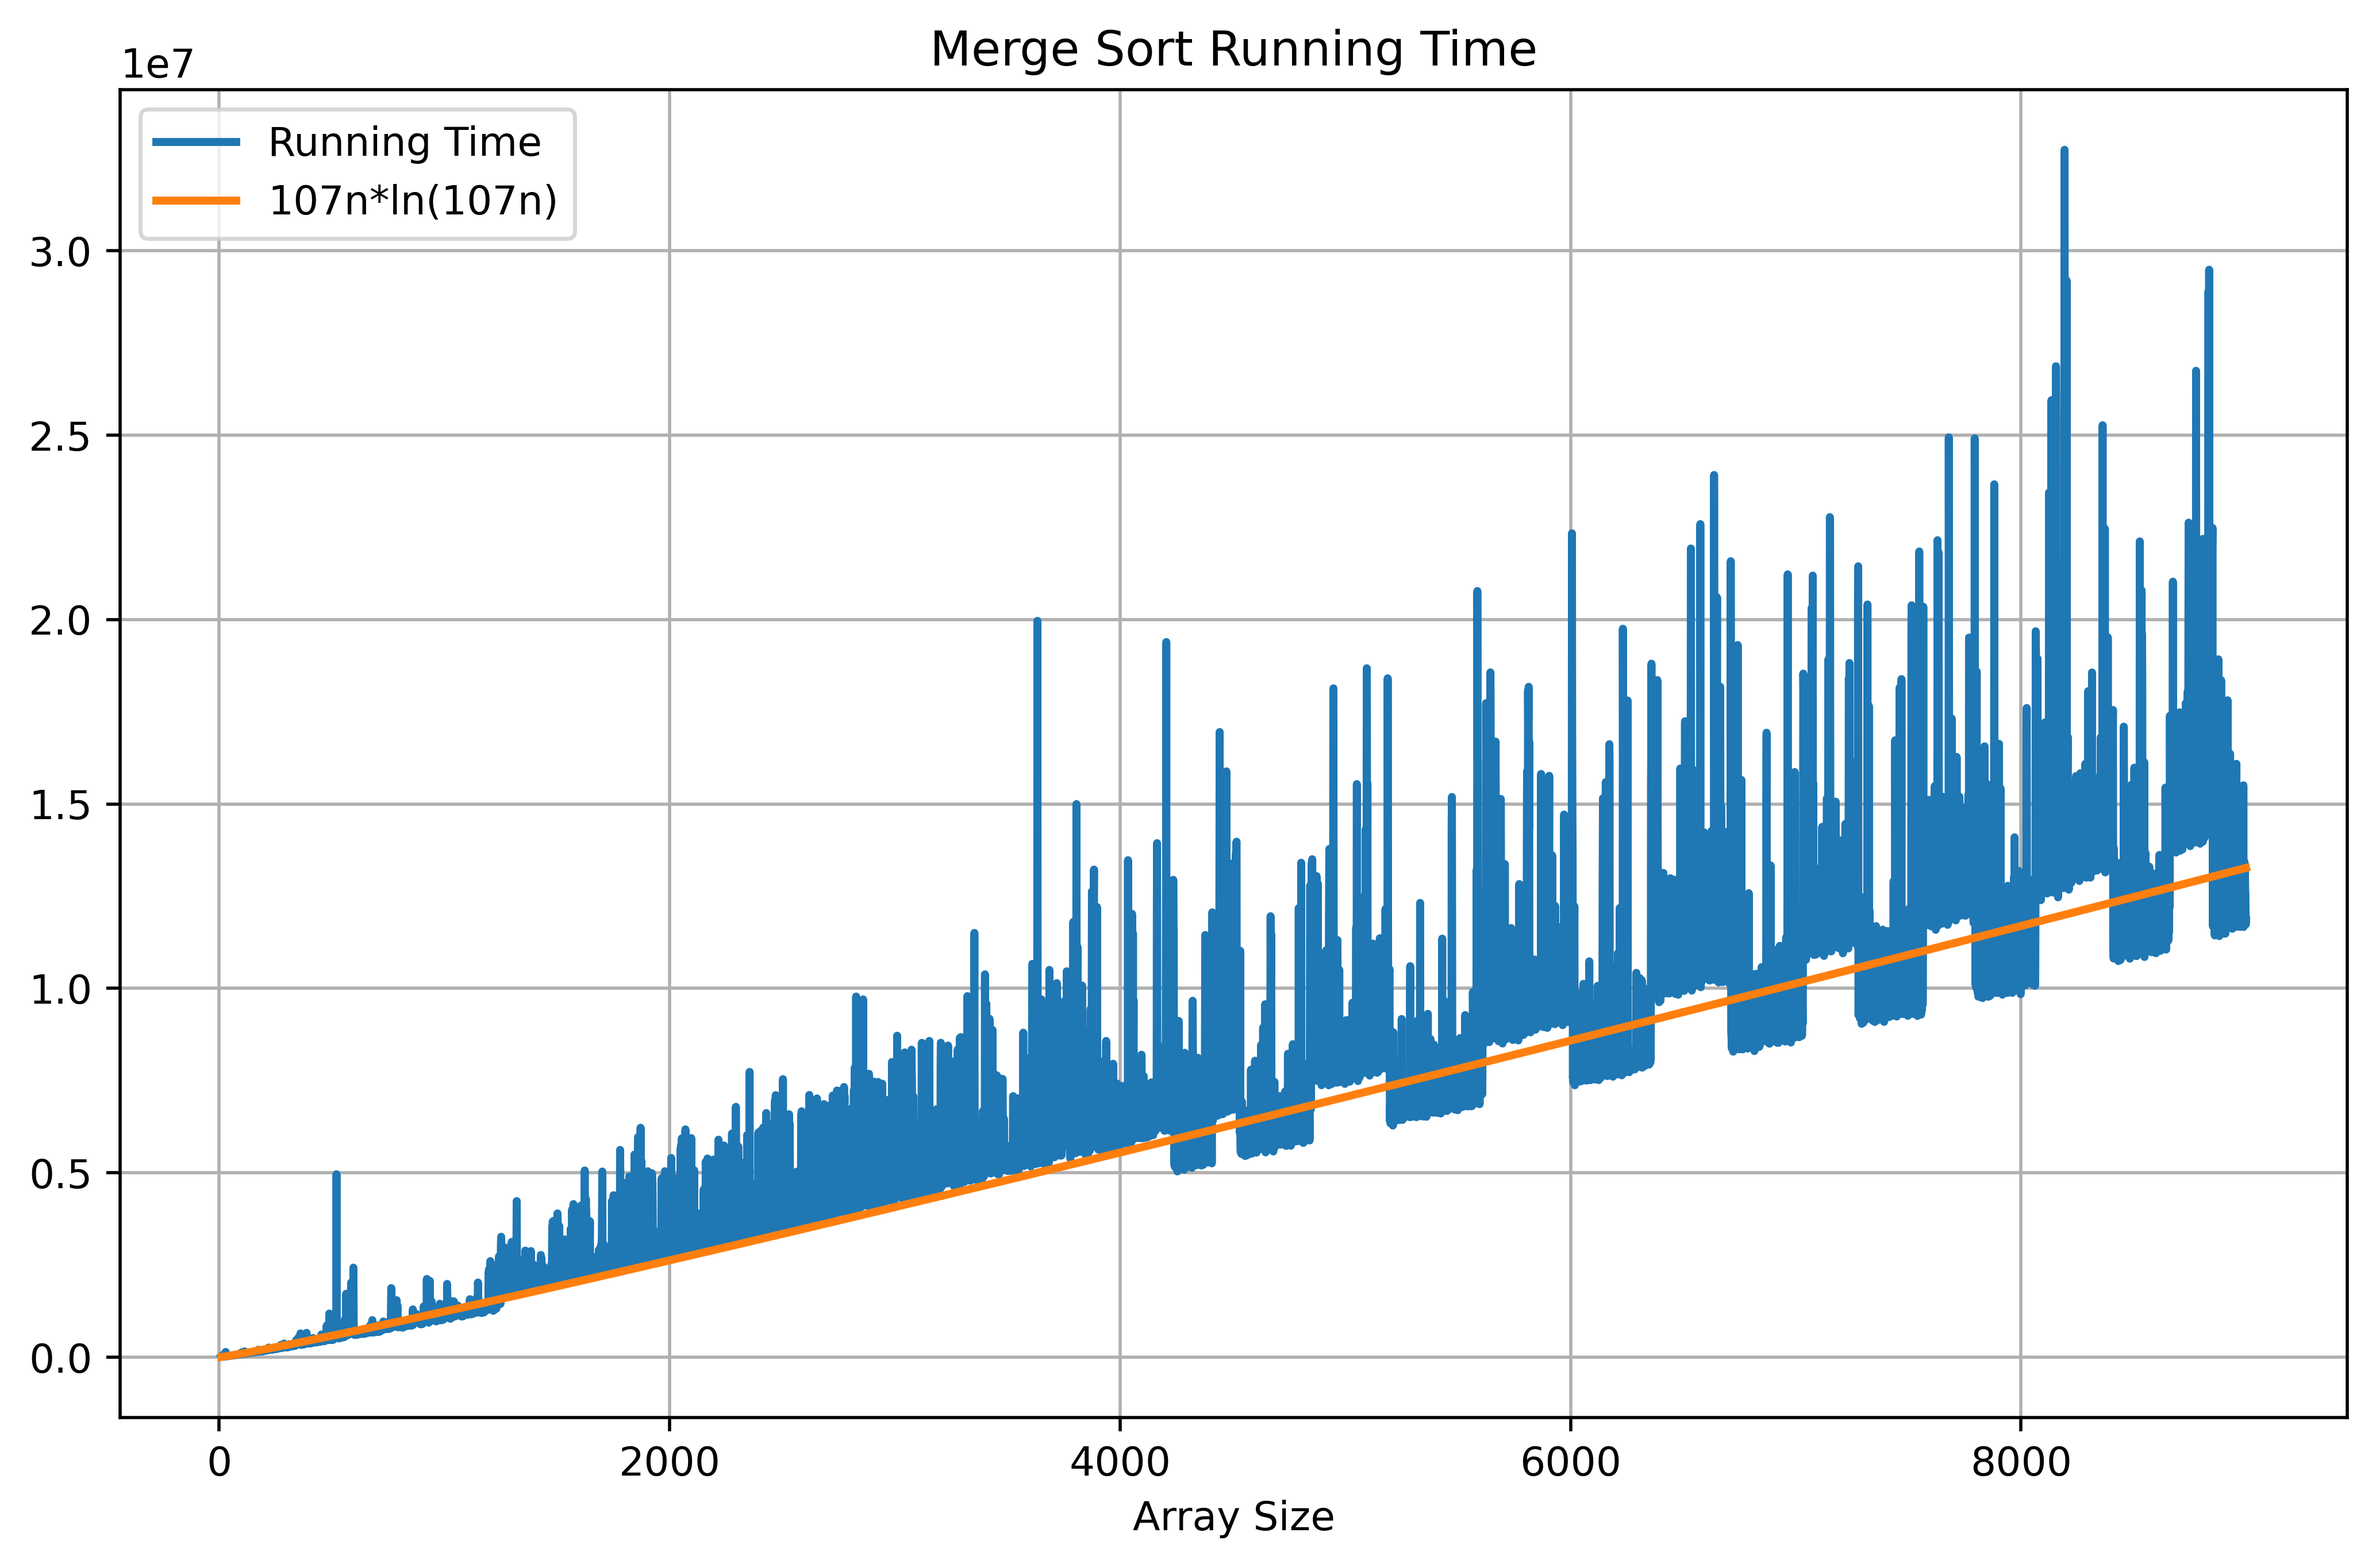
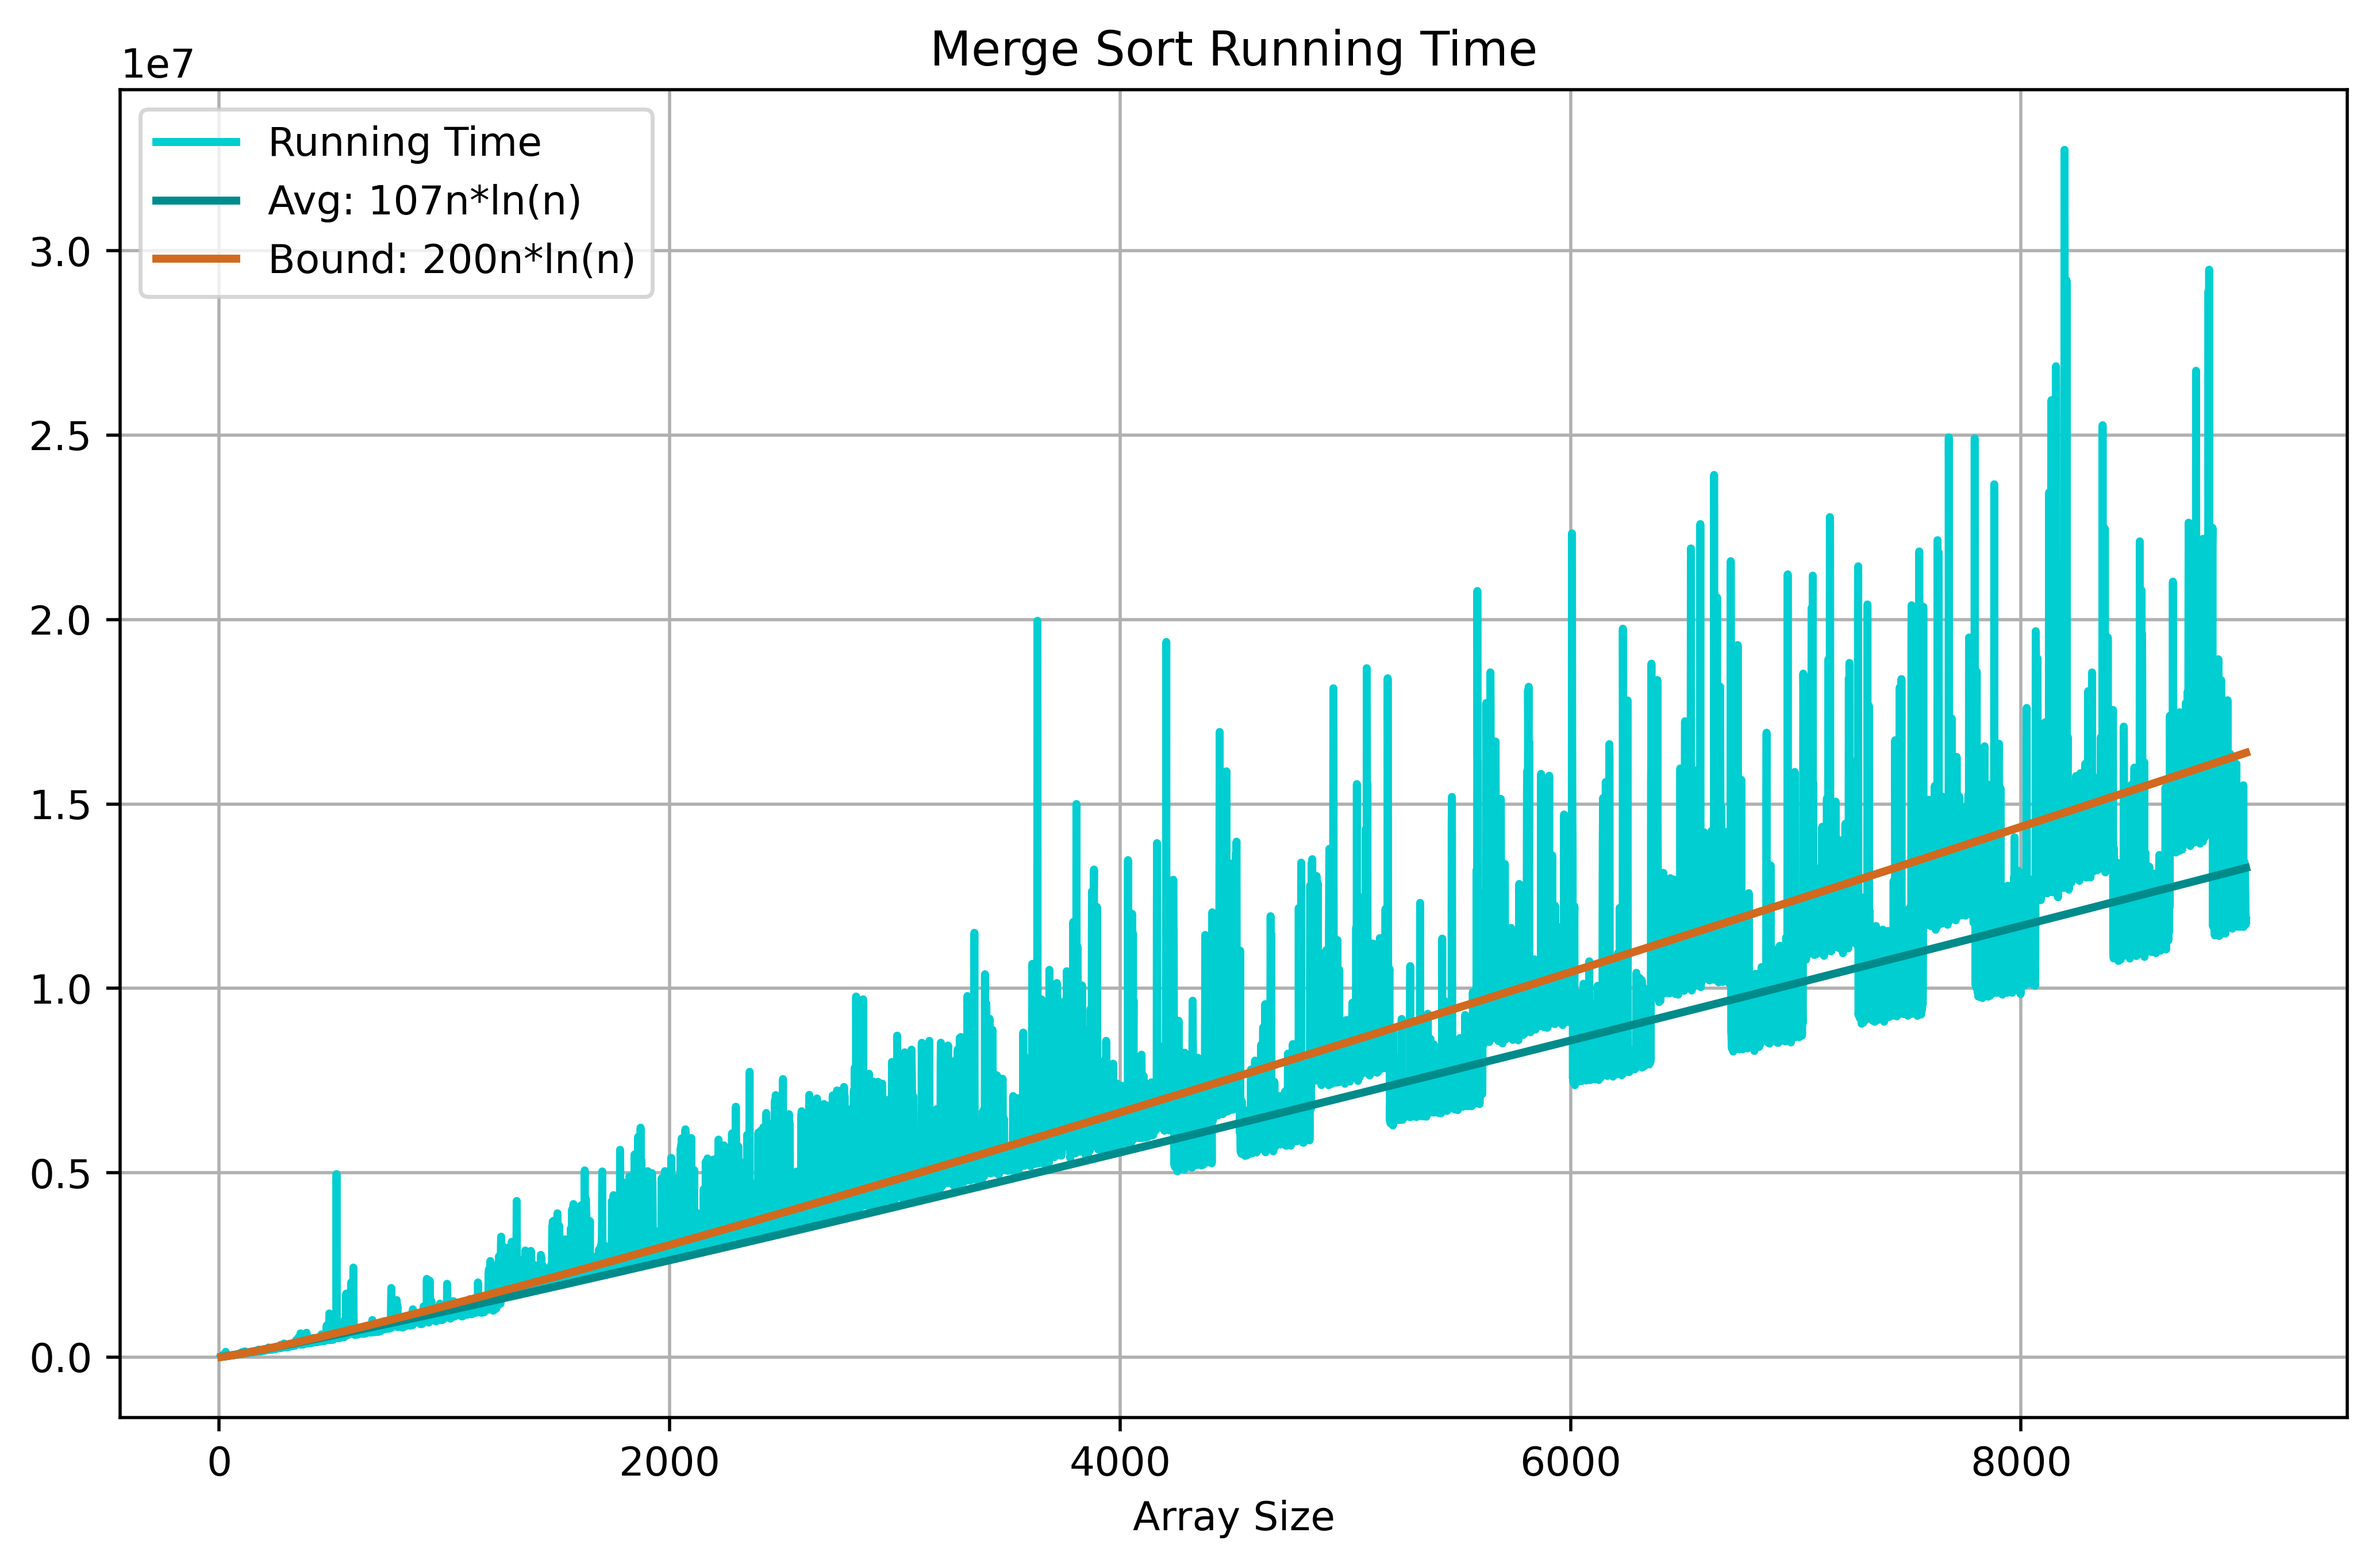
feat: change colors and labels

diff --git a/display/merge-sort-performance.py b/display/merge-sort-performance.py
@@ -11,14 +11,19 @@ n = data['n']
 times = data['time']
 
 constante = 107
+c_sup = 200
 y = [
     (constante*i)*math.log(constante*i) for i in n
+]
+sup = [
+    (c_sup*i)*math.log(i) for i in n
 ]
 # Create the plot
 plt.figure(figsize=(10, 6))
 
-plt.plot(n,times,linestyle='-', linewidth=2,label="Running Time")
-plt.plot(n,y,linestyle='-', linewidth=2, label="107n*ln(107n)")
+plt.plot(n,times, color='darkturquoise',linestyle='-', linewidth=2,label="Running Time")
+plt.plot(n,y, color='darkcyan',linestyle='-', linewidth=2, label=f"Avg: {constante}n*ln(n)")
+plt.plot(n,sup, color='chocolate',linestyle='-', linewidth=2, label=f"Bound: {c_sup}n*ln(n)")
 plt.legend()
 plt.title("Merge Sort Running Time")
 plt.xlabel("Array Size")
